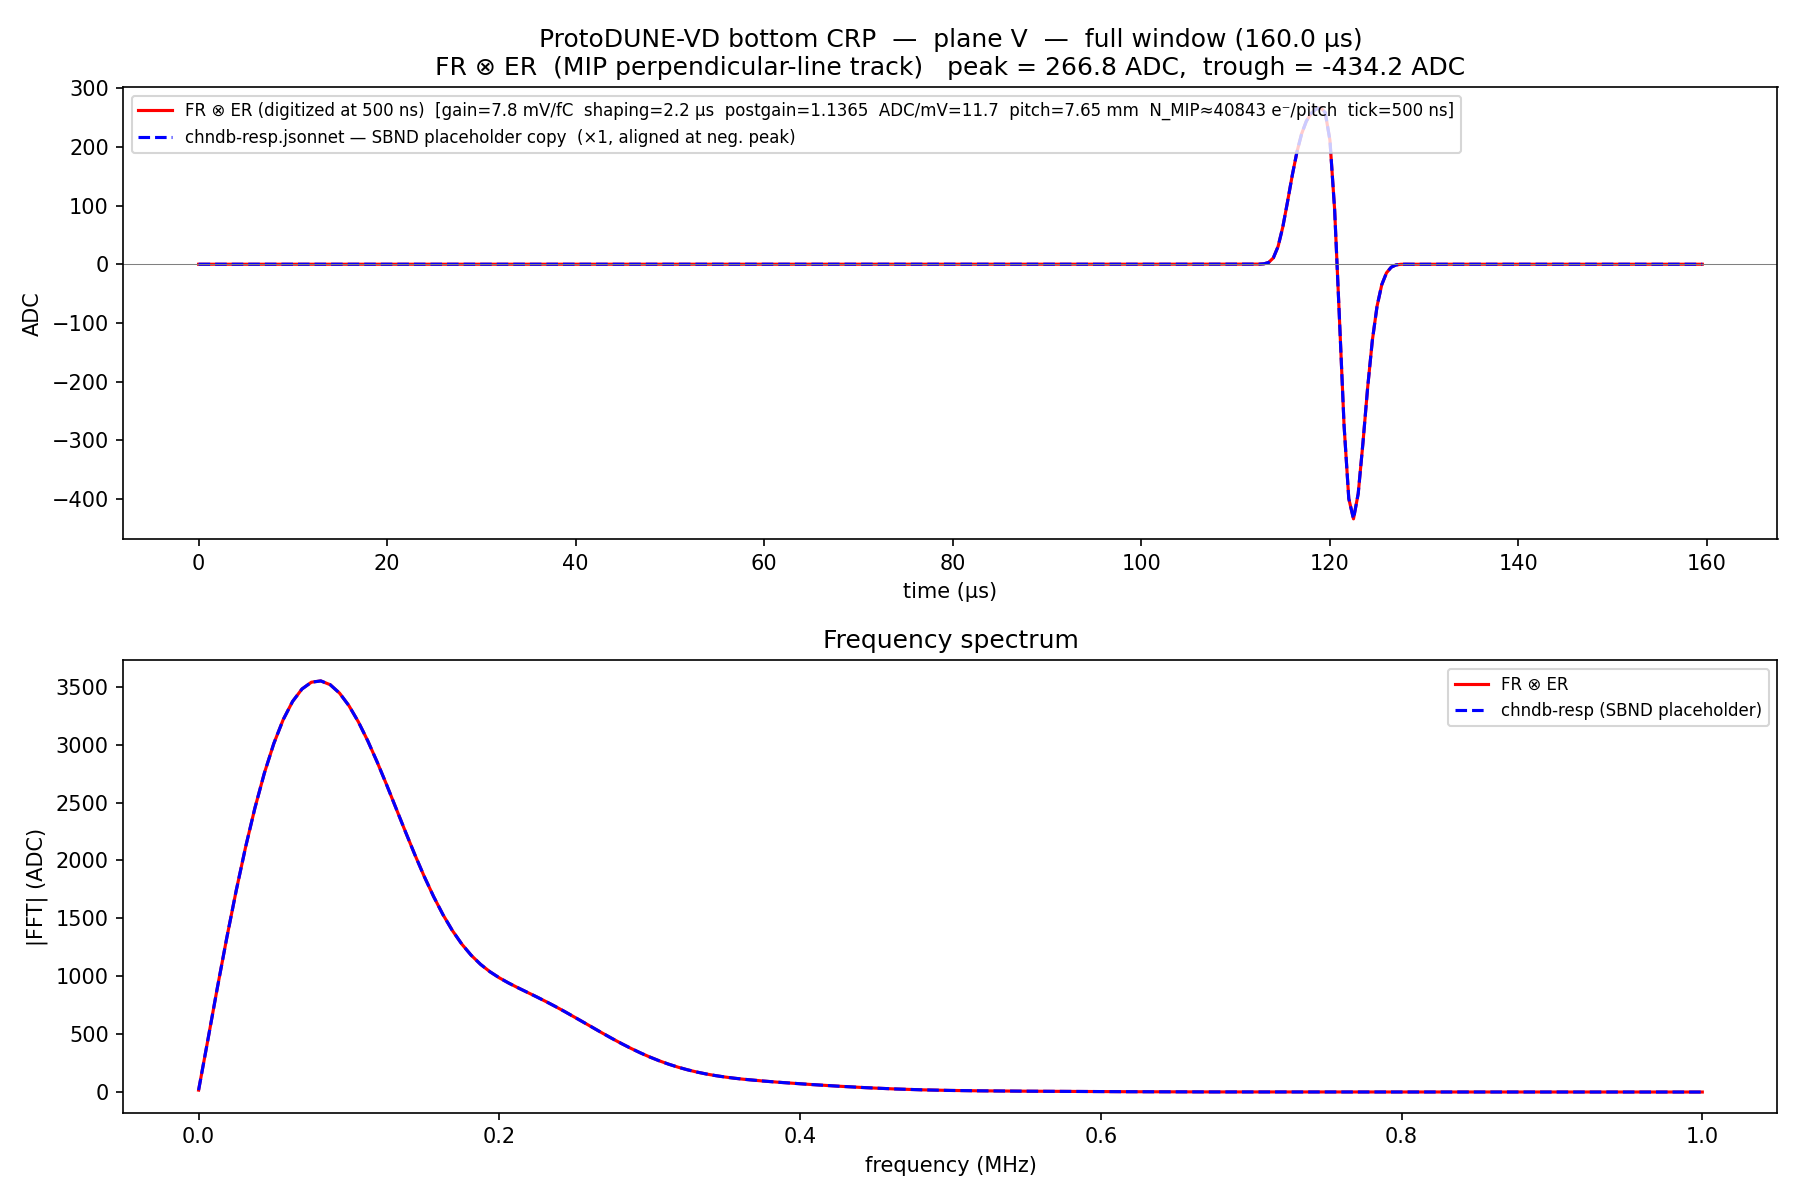
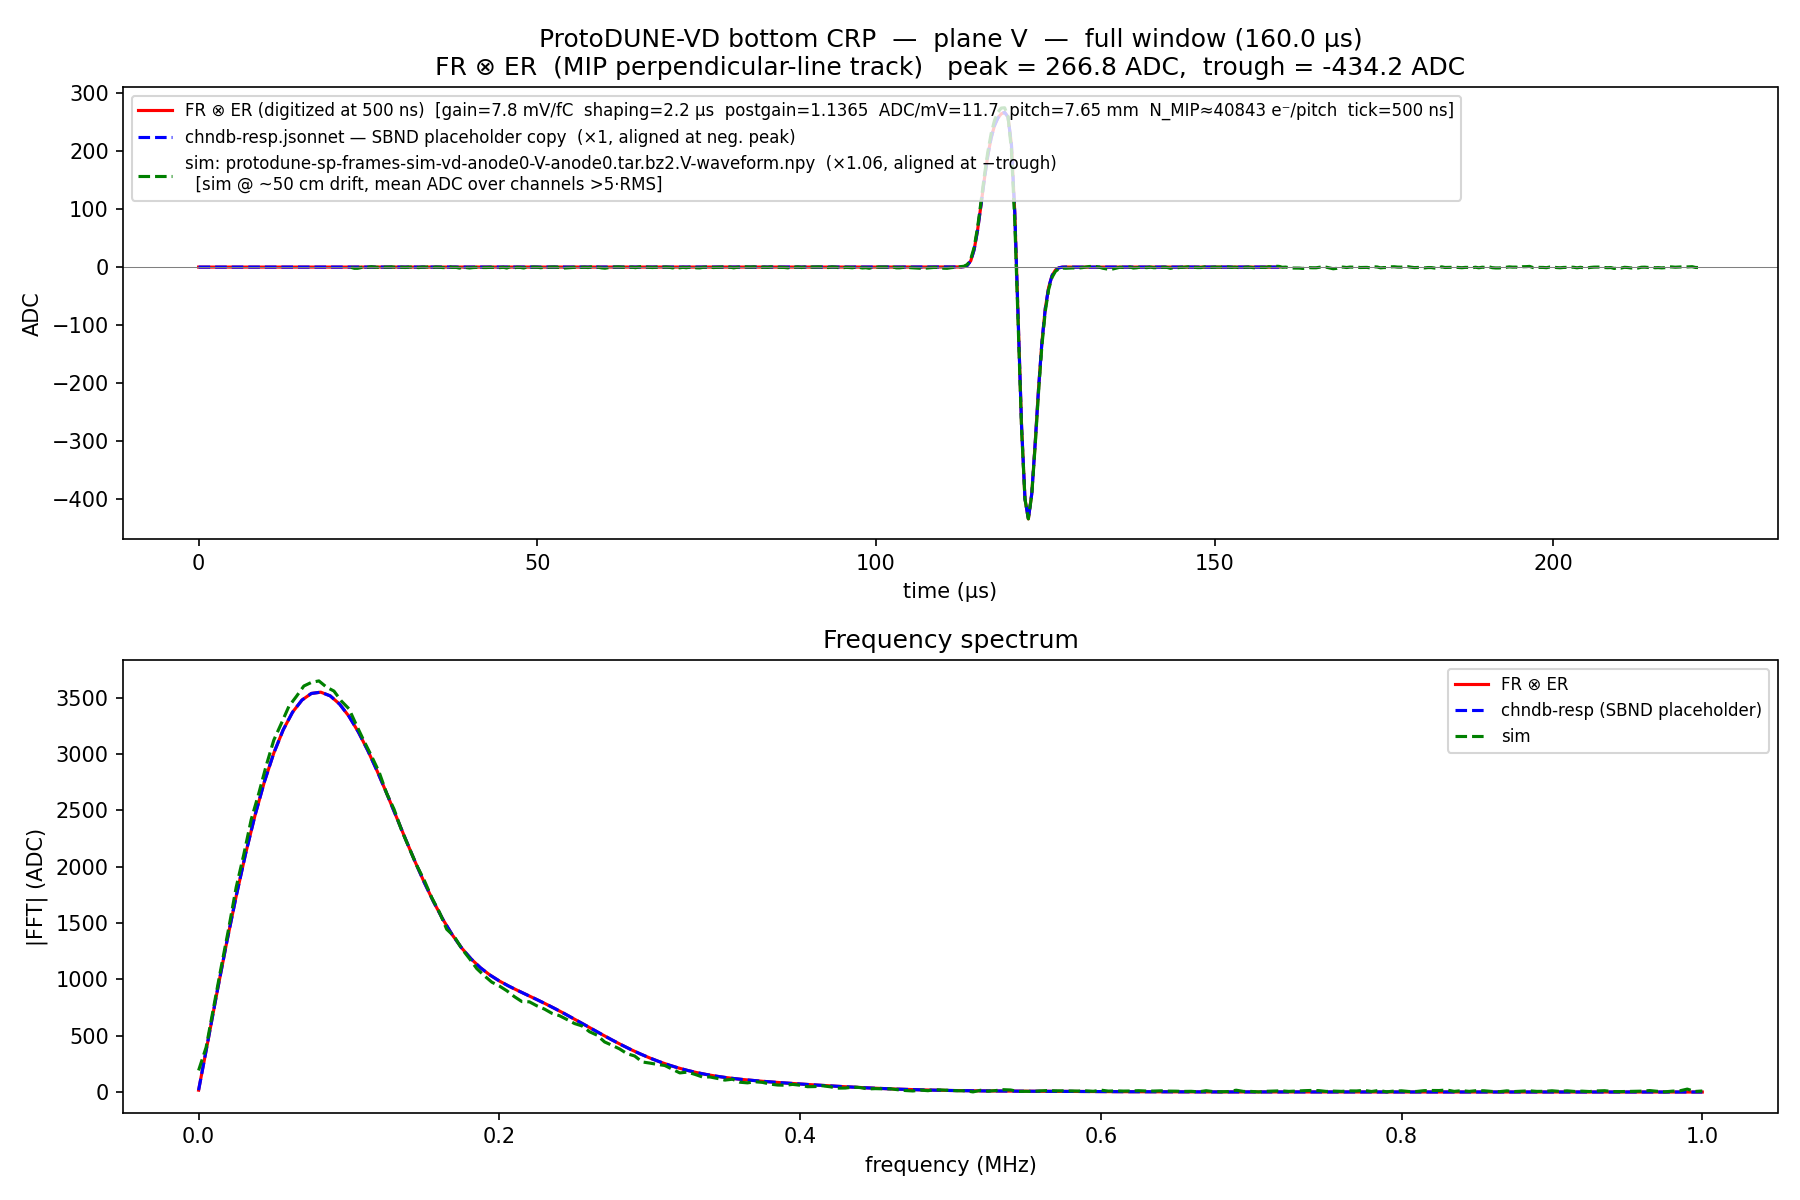
pdvd/nf_plot: overlay WireCell sim waveforms on track-response plots; document in README
Each track_response_{pdhd,pdvd_top,pdvd_bottom}.py now loads the corresponding
per-plane mean-ADC npy from /nfs/data/1/xning/wirecell-working/data/sim/ and
plots it (green dashed, rescaled to the model's dominant extremum) alongside the
existing FR⊗ER model (red) and chndb-resp placeholder (blue dashed).  The
scaling factor is printed to stdout and shown in the legend.

Observed scale factors: 1.05–1.13 (model > sim by 5–13%), consistent with the
sim running at 50 cm drift (lifetime attenuation, σ_T diffusion, channel-average
selection bias above 5·RMS) vs. the analytic model at the response plane.

README.md extended with a "Track response + sim overlay" section documenting the
three scripts, the detector/anode mapping, how to run them, and how to interpret
the scale factors.

diff --git a/pdvd/nf_plot/track_response_pdvd_bottom.py b/pdvd/nf_plot/track_response_pdvd_bottom.py
@@ -43,6 +43,11 @@ CHNDB_RESP_FILE = ('/nfs/data/1/xqian/toolkit-dev/toolkit/cfg/pgrapher'
                    '/experiment/protodunevd/chndb-resp-bot.jsonnet')
 CHNDB_TICK_US = 0.5      # chndb-resp arrays sampled at 500 ns
 
+SIM_DIR      = '/nfs/data/1/xning/wirecell-working/data/sim/'
+SIM_FILE_FMT = ('protodune-sp-frames-sim-vd-anode0-{P}-anode0'
+                '.tar.bz2.{P}-waveform.npy')
+SIM_TICK_US  = 0.5
+
 ADC_TICK_NS = 500.0      # PDVD daq tick = 0.5 µs (params.jsonnet inherits common)
 
 # Working window for FR⊗ER convolution. PDVD's FR file is ~132.5 µs which
@@ -76,6 +81,15 @@ def parse_chndb_resp(path):
         nums = re.findall(r'[-+]?\d*\.?\d+(?:[eE][-+]?\d+)?', m.group(1))
         result[key] = np.array([float(x) for x in nums])
     return result
+
+
+def load_sim_overlay(plane_label):
+    path = os.path.join(SIM_DIR, SIM_FILE_FMT.format(P=plane_label))
+    if not os.path.exists(path):
+        return None
+    y = np.load(path)
+    j = int(np.argmax(np.abs(y)))
+    return path, y, j
 
 
 def line_source_response(plane):
@@ -120,8 +134,7 @@ def line_source_response(plane):
     return integral / pitch
 
 
-def make_plot(wave_adc, chndb_ref, tick_us, plane_label, pitch_mm, n_mip_pl, outpath):
-    """Two-panel plot: ADC waveform at ADC tick (top) + |FFT| (bottom)."""
+def make_plot(wave_adc, chndb_ref, tick_us, plane_label, pitch_mm, n_mip_pl, outpath, sim=None):
     N = len(wave_adc)
     t_us      = np.arange(N) * tick_us
     freqs_mhz = np.fft.rfftfreq(N, d=tick_us)
@@ -129,7 +142,6 @@ def make_plot(wave_adc, chndb_ref, tick_us, plane_label, pitch_mm, n_mip_pl, out
     pk_pos = wave_adc[np.argmax(wave_adc)]
     pk_neg = wave_adc[np.argmin(wave_adc)]
 
-    # Align chndb_ref negative peak to our trough.
     i_neg_adc   = int(np.argmin(wave_adc))
     t_neg_us    = t_us[i_neg_adc]
     i_neg_chndb = int(np.argmin(chndb_ref))
@@ -152,6 +164,17 @@ def make_plot(wave_adc, chndb_ref, tick_us, plane_label, pitch_mm, n_mip_pl, out
             label=f'FR ⊗ ER (digitized at {tick_us*1000:.0f} ns)  [{params_str}]')
     ax.plot(t_chndb, chndb_scaled, 'b--', lw=1.5,
             label=f'chndb-resp.jsonnet — SBND placeholder copy  (×{scale:.3g}, aligned at neg. peak)')
+    if sim is not None:
+        sim_path, y_sim, j_sim = sim
+        sim_basename = os.path.basename(sim_path)
+        i_model = int(np.argmax(wave_adc)) if y_sim[j_sim] > 0 else int(np.argmin(wave_adc))
+        y_model = wave_adc[i_model]
+        sim_scale = y_model / y_sim[j_sim]
+        t_sim = t_us[i_model] + (np.arange(len(y_sim)) - j_sim) * SIM_TICK_US
+        align_lbl = '+peak' if y_sim[j_sim] > 0 else '−trough'
+        ax.plot(t_sim, y_sim * sim_scale, 'g--', lw=1.5,
+                label=(f'sim: {sim_basename}  (×{sim_scale:.3g}, aligned at {align_lbl})'
+                       f'\n  [sim @ ~50 cm drift, mean ADC over channels >5·RMS]'))
     ax.axhline(0, color='gray', lw=0.5)
     ax.set_xlabel('time (µs)')
     ax.set_ylabel('ADC')
@@ -167,6 +190,9 @@ def make_plot(wave_adc, chndb_ref, tick_us, plane_label, pitch_mm, n_mip_pl, out
     ax.plot(freqs_mhz, np.abs(np.fft.rfft(wave_adc)), 'r-', lw=1.5, label='FR ⊗ ER')
     freqs_chndb = np.fft.rfftfreq(len(chndb_scaled), d=CHNDB_TICK_US)
     ax.plot(freqs_chndb, np.abs(np.fft.rfft(chndb_scaled)), 'b--', lw=1.5, label='chndb-resp (SBND placeholder)')
+    if sim is not None:
+        freqs_sim = np.fft.rfftfreq(len(y_sim), d=SIM_TICK_US)
+        ax.plot(freqs_sim, np.abs(np.fft.rfft(y_sim * sim_scale)), 'g--', lw=1.5, label='sim')
     ax.set_xlabel('frequency (MHz)')
     ax.set_ylabel('|FFT| (ADC)')
     ax.set_title('Frequency spectrum')
@@ -254,8 +280,16 @@ def run():
         print(f'  chndb-resp neg peak at sample {i_neg_c}  '
               f'({i_neg_c * CHNDB_TICK_US:.1f} µs),  scale = {scale:.4g}')
 
+        sim = load_sim_overlay(label)
+        if sim is not None:
+            sim_path, y_sim, j_sim = sim
+            i_model = int(np.argmax(wave_adc)) if y_sim[j_sim] > 0 else int(np.argmin(wave_adc))
+            sim_scale = wave_adc[i_model] / y_sim[j_sim]
+            print(f'  sim overlay: {os.path.basename(sim_path)}  '
+                  f'peak|y|={abs(y_sim[j_sim]):.2f} at idx {j_sim},  scale={sim_scale:.4g}')
+
         outpath = os.path.join(WORKDIR, f'track_response_pdvd_bottom_{label}.png')
-        make_plot(wave_adc, chndb_ref, tick_us, label, pl.pitch, n_mip_pl, outpath)
+        make_plot(wave_adc, chndb_ref, tick_us, label, pl.pitch, n_mip_pl, outpath, sim=sim)
 
 
 if __name__ == '__main__':

diff --git a/pdvd/nf_plot/track_response_pdhd.py b/pdvd/nf_plot/track_response_pdhd.py
@@ -45,6 +45,11 @@ CHNDB_RESP_FILE = ('/nfs/data/1/xqian/toolkit-dev/toolkit/cfg/pgrapher'
                    '/experiment/pdhd/chndb-resp.jsonnet')
 CHNDB_TICK_US = 0.5      # chndb-resp arrays are at 500 ns
 
+SIM_DIR      = '/nfs/data/1/xning/wirecell-working/data/sim/'
+SIM_FILE_FMT = ('protodunehd-sp-frames-sim-hd-anode1-{P}-anode1'
+                '.tar.bz2.{P}-waveform.npy')
+SIM_TICK_US  = 0.5
+
 ADC_TICK_NS = 500.0      # post-resampler tick (hardware DAQ is 512 ns; NF chain applies a 512→500 ns resampler upstream)
 
 # PDHD cold electronics (§2)
@@ -71,6 +76,15 @@ def parse_chndb_resp(path):
         nums = re.findall(r'[-+]?\d*\.?\d+(?:[eE][-+]?\d+)?', m.group(1))
         result[key] = np.array([float(x) for x in nums])
     return result
+
+
+def load_sim_overlay(plane_label):
+    path = os.path.join(SIM_DIR, SIM_FILE_FMT.format(P=plane_label))
+    if not os.path.exists(path):
+        return None
+    y = np.load(path)
+    j = int(np.argmax(np.abs(y)))
+    return path, y, j
 
 
 def line_source_response(plane):
@@ -115,7 +129,7 @@ def line_source_response(plane):
     return integral / pitch
 
 
-def make_plot(wave_adc, chndb_ref, tick_us, plane_label, pitch_mm, n_mip_pl, outpath):
+def make_plot(wave_adc, chndb_ref, tick_us, plane_label, pitch_mm, n_mip_pl, outpath, sim=None):
     N = len(wave_adc)
     t_us      = np.arange(N) * tick_us
     freqs_mhz = np.fft.rfftfreq(N, d=tick_us)
@@ -145,6 +159,17 @@ def make_plot(wave_adc, chndb_ref, tick_us, plane_label, pitch_mm, n_mip_pl, out
             label=f'FR ⊗ ER (digitized at {tick_us*1000:.0f} ns)  [{params_str}]')
     ax.plot(t_chndb, chndb_scaled, 'b--', lw=1.5,
             label=f'chndb-resp.jsonnet — SBND placeholder copy  (×{scale:.3g}, aligned at neg. peak)')
+    if sim is not None:
+        sim_path, y_sim, j_sim = sim
+        sim_basename = os.path.basename(sim_path)
+        i_model = int(np.argmax(wave_adc)) if y_sim[j_sim] > 0 else int(np.argmin(wave_adc))
+        y_model = wave_adc[i_model]
+        sim_scale = y_model / y_sim[j_sim]
+        t_sim = t_us[i_model] + (np.arange(len(y_sim)) - j_sim) * SIM_TICK_US
+        align_lbl = '+peak' if y_sim[j_sim] > 0 else '−trough'
+        ax.plot(t_sim, y_sim * sim_scale, 'g--', lw=1.5,
+                label=(f'sim: {sim_basename}  (×{sim_scale:.3g}, aligned at {align_lbl})'
+                       f'\n  [sim @ ~50 cm drift, mean ADC over channels >5·RMS]'))
     ax.axhline(0, color='gray', lw=0.5)
     ax.set_xlabel('time (µs)')
     ax.set_ylabel('ADC')
@@ -160,6 +185,9 @@ def make_plot(wave_adc, chndb_ref, tick_us, plane_label, pitch_mm, n_mip_pl, out
     ax.plot(freqs_mhz, np.abs(np.fft.rfft(wave_adc)), 'r-', lw=1.5, label='FR ⊗ ER')
     freqs_chndb = np.fft.rfftfreq(len(chndb_scaled), d=CHNDB_TICK_US)
     ax.plot(freqs_chndb, np.abs(np.fft.rfft(chndb_scaled)), 'b--', lw=1.5, label='chndb-resp (SBND placeholder)')
+    if sim is not None:
+        freqs_sim = np.fft.rfftfreq(len(y_sim), d=SIM_TICK_US)
+        ax.plot(freqs_sim, np.abs(np.fft.rfft(y_sim * sim_scale)), 'g--', lw=1.5, label='sim')
     ax.set_xlabel('frequency (MHz)')
     ax.set_ylabel('|FFT| (ADC)')
     ax.set_title('Frequency spectrum')
@@ -237,8 +265,16 @@ def run():
         print(f'  chndb-resp neg peak at sample {i_neg_c}  '
               f'({i_neg_c * CHNDB_TICK_US:.1f} µs),  scale = {scale:.4g}')
 
+        sim = load_sim_overlay(label)
+        if sim is not None:
+            sim_path, y_sim, j_sim = sim
+            i_model = int(np.argmax(wave_adc)) if y_sim[j_sim] > 0 else int(np.argmin(wave_adc))
+            sim_scale = wave_adc[i_model] / y_sim[j_sim]
+            print(f'  sim overlay: {os.path.basename(sim_path)}  '
+                  f'peak|y|={abs(y_sim[j_sim]):.2f} at idx {j_sim},  scale={sim_scale:.4g}')
+
         outpath = os.path.join(WORKDIR, f'track_response_pdhd_{label}.png')
-        make_plot(wave_adc, chndb_ref, tick_us, label, pl.pitch, n_mip_pl, outpath)
+        make_plot(wave_adc, chndb_ref, tick_us, label, pl.pitch, n_mip_pl, outpath, sim=sim)
 
 
 if __name__ == '__main__':

diff --git a/pdvd/nf_plot/track_response_pdvd_top.py b/pdvd/nf_plot/track_response_pdvd_top.py
@@ -50,6 +50,11 @@ CHNDB_RESP_FILE = ('/nfs/data/1/xqian/toolkit-dev/toolkit/cfg/pgrapher'
                    '/experiment/protodunevd/chndb-resp-top.jsonnet')
 CHNDB_TICK_US = 0.5
 
+SIM_DIR      = '/nfs/data/1/xning/wirecell-working/data/sim/'
+SIM_FILE_FMT = ('protodune-sp-frames-sim-vd-anode4-{P}-anode4'
+                '.tar.bz2.{P}-waveform.npy')
+SIM_TICK_US  = 0.5
+
 ADC_TICK_NS = 500.0
 
 # Working window for FR⊗ER convolution. PDVD's FR file is ~132.5 µs which
@@ -96,6 +101,15 @@ def parse_chndb_resp(path):
     return result
 
 
+def load_sim_overlay(plane_label):
+    path = os.path.join(SIM_DIR, SIM_FILE_FMT.format(P=plane_label))
+    if not os.path.exists(path):
+        return None
+    y = np.load(path)
+    j = int(np.argmax(np.abs(y)))
+    return path, y, j
+
+
 def line_source_response(plane):
     """
     Perpendicular-line-source response on the central wire.
@@ -138,7 +152,7 @@ def line_source_response(plane):
     return integral / pitch
 
 
-def make_plot(wave_adc, chndb_ref, tick_us, plane_label, pitch_mm, n_mip_pl, outpath, er_info):
+def make_plot(wave_adc, chndb_ref, tick_us, plane_label, pitch_mm, n_mip_pl, outpath, er_info, sim=None):
     N = len(wave_adc)
     t_us      = np.arange(N) * tick_us
     freqs_mhz = np.fft.rfftfreq(N, d=tick_us)
@@ -167,6 +181,17 @@ def make_plot(wave_adc, chndb_ref, tick_us, plane_label, pitch_mm, n_mip_pl, out
             label=f'FR ⊗ ER  (digitized at {tick_us*1000:.0f} ns)  [{params_str}]')
     ax.plot(t_chndb, chndb_scaled, 'b--', lw=1.5,
             label=f'chndb-resp.jsonnet — SBND placeholder copy  (×{scale:.3g}, aligned at neg. peak)')
+    if sim is not None:
+        sim_path, y_sim, j_sim = sim
+        sim_basename = os.path.basename(sim_path)
+        i_model = int(np.argmax(wave_adc)) if y_sim[j_sim] > 0 else int(np.argmin(wave_adc))
+        y_model = wave_adc[i_model]
+        sim_scale = y_model / y_sim[j_sim]
+        t_sim = t_us[i_model] + (np.arange(len(y_sim)) - j_sim) * SIM_TICK_US
+        align_lbl = '+peak' if y_sim[j_sim] > 0 else '−trough'
+        ax.plot(t_sim, y_sim * sim_scale, 'g--', lw=1.5,
+                label=(f'sim: {sim_basename}  (×{sim_scale:.3g}, aligned at {align_lbl})'
+                       f'\n  [sim @ ~50 cm drift, mean ADC over channels >5·RMS]'))
     ax.axhline(0, color='gray', lw=0.5)
     ax.set_xlabel('time (µs)')
     ax.set_ylabel('ADC')
@@ -182,6 +207,9 @@ def make_plot(wave_adc, chndb_ref, tick_us, plane_label, pitch_mm, n_mip_pl, out
     ax.plot(freqs_mhz, np.abs(np.fft.rfft(wave_adc)), 'r-', lw=1.5, label='FR ⊗ ER')
     freqs_chndb = np.fft.rfftfreq(len(chndb_scaled), d=CHNDB_TICK_US)
     ax.plot(freqs_chndb, np.abs(np.fft.rfft(chndb_scaled)), 'b--', lw=1.5, label='chndb-resp (SBND placeholder)')
+    if sim is not None:
+        freqs_sim = np.fft.rfftfreq(len(y_sim), d=SIM_TICK_US)
+        ax.plot(freqs_sim, np.abs(np.fft.rfft(y_sim * sim_scale)), 'g--', lw=1.5, label='sim')
     ax.set_xlabel('frequency (MHz)')
     ax.set_ylabel('|FFT| (ADC)')
     ax.set_title('Frequency spectrum')
@@ -287,8 +315,16 @@ def run():
         print(f'  chndb-resp neg peak at sample {i_neg_c}  '
               f'({i_neg_c * CHNDB_TICK_US:.1f} µs),  scale = {scale:.4g}')
 
+        sim = load_sim_overlay(label)
+        if sim is not None:
+            sim_path, y_sim, j_sim = sim
+            i_model = int(np.argmax(wave_adc)) if y_sim[j_sim] > 0 else int(np.argmin(wave_adc))
+            sim_scale = wave_adc[i_model] / y_sim[j_sim]
+            print(f'  sim overlay: {os.path.basename(sim_path)}  '
+                  f'peak|y|={abs(y_sim[j_sim]):.2f} at idx {j_sim},  scale={sim_scale:.4g}')
+
         outpath = os.path.join(WORKDIR, f'track_response_pdvd_top_{label}.png')
-        make_plot(wave_adc, chndb_ref, tick_us, label, pl.pitch, n_mip_pl, outpath, er_info)
+        make_plot(wave_adc, chndb_ref, tick_us, label, pl.pitch, n_mip_pl, outpath, er_info, sim=sim)
 
 
 if __name__ == '__main__':

diff --git a/pdvd/nf_plot/README.md b/pdvd/nf_plot/README.md
@@ -47,3 +47,55 @@ for the full reference.
   bottom-CRP and top-CRP groups to the same `Wiener_tight_*` set;
   if that ever diverges the viewer will simply show different
   filters in the header bar — no viewer change needed.
+
+---
+
+## Track response + sim overlay
+
+`track_response_{pdhd,pdvd_top,pdvd_bottom}.py` compute the analytic
+FR ⊗ ER perpendicular-line-track response for U and V planes and overlay
+a WireCell simulation waveform from
+`/nfs/data/1/xning/wirecell-working/data/sim/`.
+
+### Scripts and detector mapping
+
+| Script | Detector | FR file | Electronics | Sim anode |
+|--------|----------|---------|-------------|-----------|
+| `track_response_pdhd.py` | PDHD APAs 1/2/3 | `dune-garfield-1d565.json.bz2` | cold 14 mV/fC, 2.2 µs | HD anode 1 |
+| `track_response_pdvd_bottom.py` | PDVD bottom CRP (anodes 0–3) | `protodunevd_FR_norminal_260324.json.bz2` | cold 7.8 mV/fC, 2.2 µs, postgain 1.1365 | VD anode 0 |
+| `track_response_pdvd_top.py` | PDVD top CRP (anodes 4–7) | `protodunevd_FR_norminal_260324.json.bz2` | `JsonElecResponse` (peak ≈ 7.2 mV/fC), postgain 1.52 | VD anode 4 |
+
+### How to run
+
+```bash
+cd pdvd/nf_plot
+/nfs/data/1/xning/wirecell-working/.direnv/python-3.11.9/bin/python3 track_response_pdhd.py
+/nfs/data/1/xning/wirecell-working/.direnv/python-3.11.9/bin/python3 track_response_pdvd_bottom.py
+/nfs/data/1/xning/wirecell-working/.direnv/python-3.11.9/bin/python3 track_response_pdvd_top.py
+```
+
+Each script writes two PNGs in this directory: `track_response_<det>_U.png` and
+`track_response_<det>_V.png`.  Each PNG has two panels:
+
+- **Top** — ADC waveform vs. time.  Three overlaid lines:
+  - **Red solid** — analytic FR ⊗ ER model (digitised at 500 ns).
+  - **Blue dashed** — `chndb-resp.jsonnet` reference (SBND placeholder; shape only, rescaled to model trough).
+  - **Green dashed** — simulation waveform from the npy file (rescaled to the model's dominant extremum; scaling factor shown in legend).
+- **Bottom** — |FFT| of all three waveforms.
+
+### Sim overlay details
+
+The sim npy files are 400-sample mean-ADC traces (500 ns/tick) produced by
+`wct-sim-check-track.jsonnet` — a perpendicular MIP track at 50 cm drift,
+averaged over channels above 5·RMS.  The dominant extremum (largest |ADC|)
+sits at sample 200.  The overlay aligns that extremum to the same-sign
+extremum of the analytic model and rescales to match its amplitude;
+the scaling factor printed in the legend and on stdout reflects the
+model-vs-sim amplitude ratio at that extremum.
+
+Expected scale factors are 1.0–1.15.  The model is at the response plane
+(no drift), so it is slightly larger than the sim, which accumulates
+binomial lifetime attenuation (< 0.1%), transverse diffusion smearing, and
+upward channel-selection bias from the 5·RMS threshold.  See
+`/nfs/data/1/xning/wirecell-working/data/sim/sim-assumptions.md` for a
+full breakdown.  Discrepancies beyond ~20% warrant investigation.
